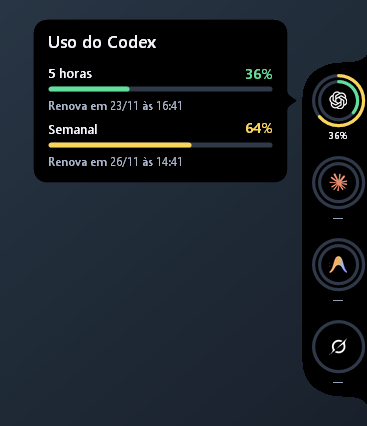
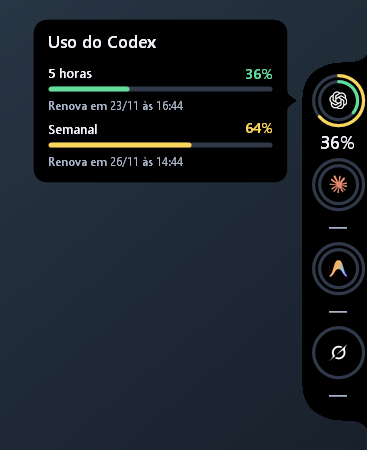
Enlarge quota percentages below rings

diff --git a/src/Widget.cs b/src/Widget.cs
@@ -283,8 +283,13 @@ namespace UsageLLMs
             bool lateral = DockFace.IsLateral(position.Edge);
             float scale = faceSize / (float)DockFace.Width;
             int first = Pixel((lateral ? providerCenters[0].Y : providerCenters[0].X) * scale);
-            float index = ((lateral ? point.Y : point.X) - first) / (float)Pixel(DockFace.CellStep(position.Edge, ShowsUsage) * scale);
-            return Math.Max(0, Math.Min(visibleProviders.Length - 1, (int)Math.Round(index)));
+            int step = DockFace.CellStep(position.Edge, ShowsUsage);
+            float index = ((lateral ? point.Y : point.X) - first) / (float)Pixel(step * scale);
+            // On the sides, keep the lower label in the same hover area as its ring.
+            double offset = lateral && ShowsUsage
+                ? 1 - (DockFace.LabelTop + DockFace.LabelHeight + 1.0) / step
+                : 0.5;
+            return Math.Max(0, Math.Min(visibleProviders.Length - 1, (int)Math.Floor(index + offset)));
         }
 
         private void TrackHover(Point point)
@@ -448,7 +453,7 @@ namespace UsageLLMs
             if (usageLabelFont != null)
                 usageLabelFont.Dispose();
             float scale = faceSize / (float)DockFace.Width;
-            usageLabelFont = new Font("Segoe UI Semibold", Pixel(9.5f * scale), FontStyle.Regular, GraphicsUnit.Pixel);
+            usageLabelFont = new Font("Segoe UI Semibold", Pixel(18 * scale), FontStyle.Regular, GraphicsUnit.Pixel);
             DockToEdge();
         }
 
@@ -598,11 +603,14 @@ namespace UsageLLMs
             for (int index = 0; index < providerCenters.Length; index++)
             {
                 Provider provider = visibleProviders[index];
-                if (provider == Provider.None || !args.ClipRectangle.IntersectsWith(CellBounds(index)))
+                if (provider == Provider.None)
                     continue;
                 PointF center = providerCenters[index];
-                var bounds = new Rectangle(Pixel((center.X - 16) * scale), Pixel((center.Y + DockFace.LabelTop) * scale),
-                    Pixel(32 * scale), Pixel(DockFace.LabelHeight * scale));
+                var bounds = new Rectangle(Pixel((center.X - DockFace.LabelWidth / 2f) * scale),
+                    Pixel((center.Y + DockFace.LabelTop) * scale),
+                    Pixel(DockFace.LabelWidth * scale), Pixel(DockFace.LabelHeight * scale));
+                if (!args.ClipRectangle.IntersectsWith(bounds))
+                    continue;
                 string text = provider == Provider.Codex ? usageLabel : NoUsage;
                 Color color = text == NoUsage || error != null ? Palette.Muted : Palette.Text;
                 TextRenderer.DrawText(g, text, usageLabelFont, bounds, color,

diff --git a/src/DockFace.cs b/src/DockFace.cs
@@ -7,7 +7,8 @@ namespace UsageLLMs
     {
         public const int Width = 68;
         public const int LabelTop = 29;
-        public const int LabelHeight = 12;
+        public const int LabelHeight = 24;
+        public const int LabelWidth = 56;
 
         public static bool IsLateral(Edge edge)
         {
@@ -16,17 +17,17 @@ namespace UsageLLMs
 
         public static int CellStep(Edge edge, bool showLabels)
         {
-            return showLabels && IsLateral(edge) ? 82 : 70;
+            return showLabels && IsLateral(edge) ? 84 : 70;
         }
 
         public static int Depth(Edge edge, bool showLabels)
         {
-            return Width + (showLabels && !IsLateral(edge) ? 16 : 0);
+            return Width + (showLabels && !IsLateral(edge) ? 28 : 0);
         }
 
         public static int Length(Edge edge, int cells, bool showLabels)
         {
-            return 100 + CellStep(edge, showLabels) * (cells - 1) + (showLabels && IsLateral(edge) ? 12 : 0);
+            return 100 + CellStep(edge, showLabels) * (cells - 1) + (showLabels && IsLateral(edge) ? 30 : 0);
         }
 
         public static GraphicsPath Create(Edge edge, int cells, bool showLabels, out PointF[] centers)
